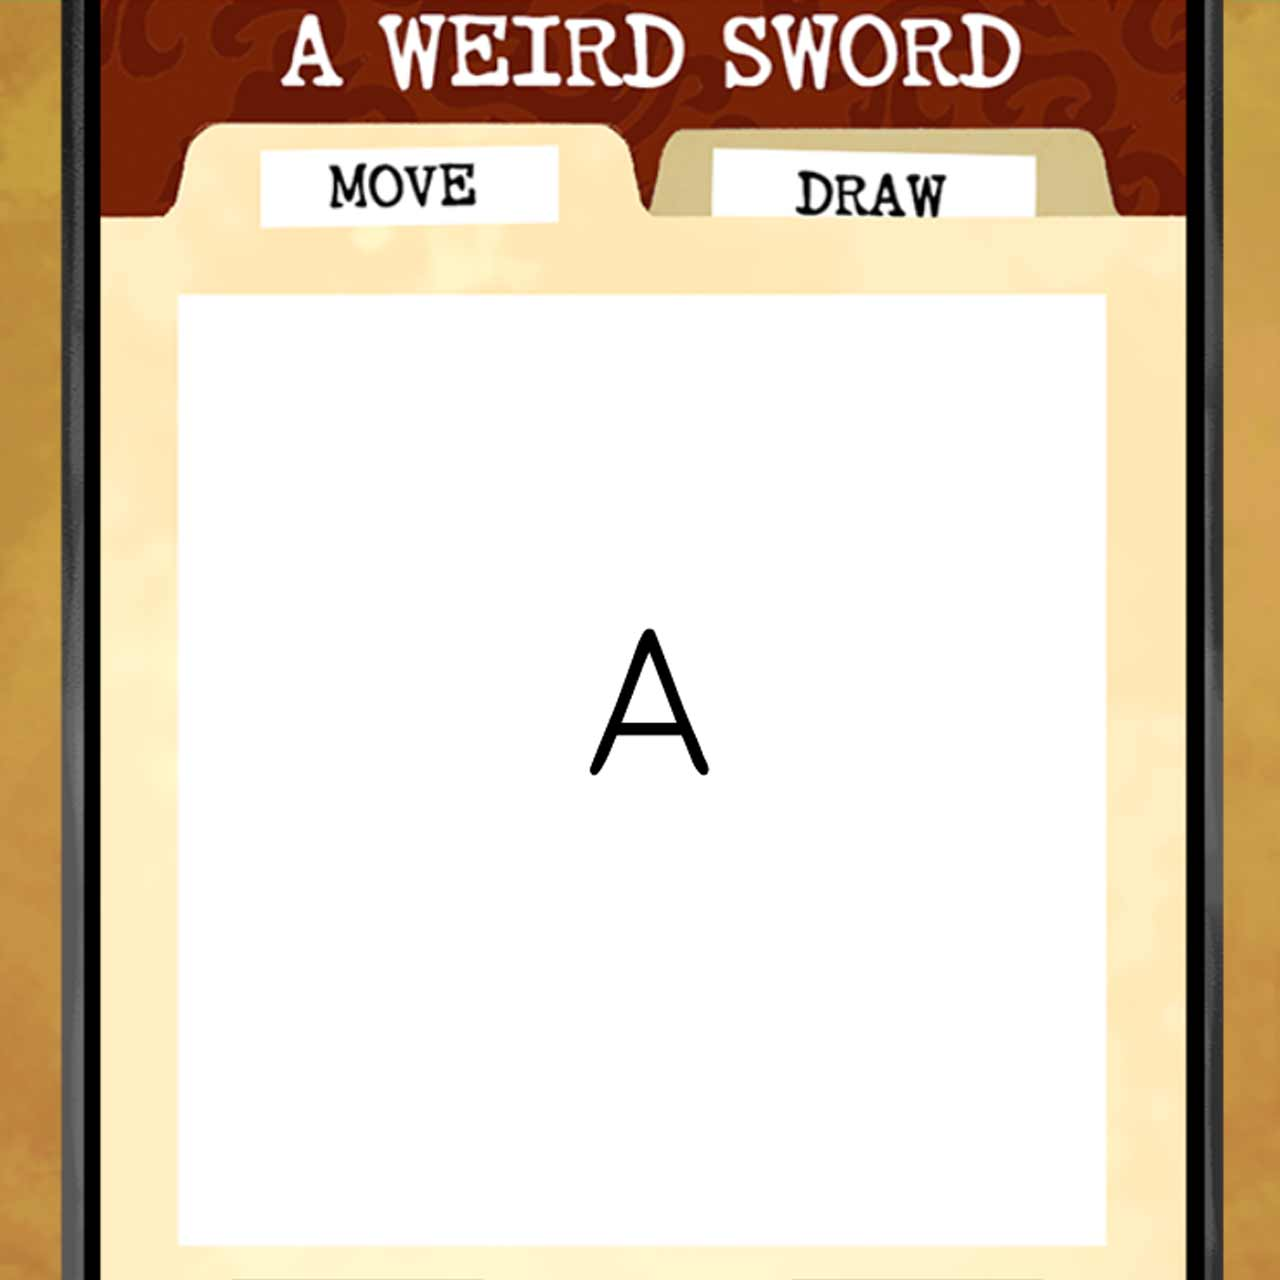
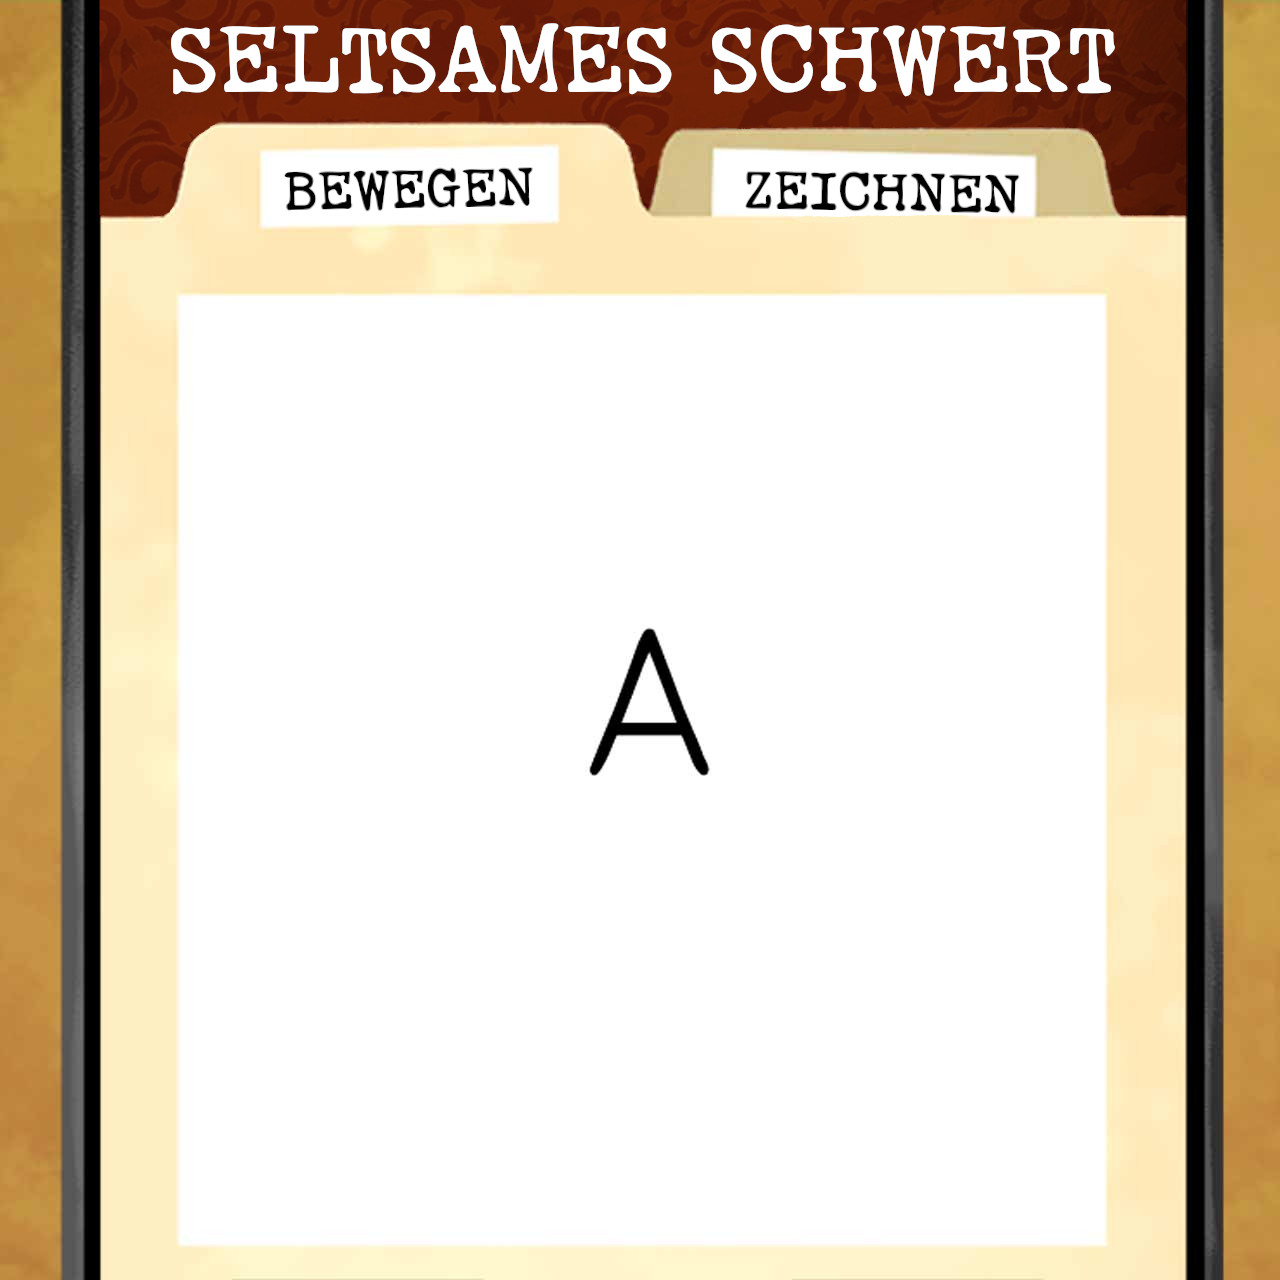
Weapons Drawn

Changed region(s): [[0.0625, 0.0, 0.9375, 0.1875], [0.5625, 0.125, 0.8125, 0.1875], [0.2188, 0.125, 0.4375, 0.1875]]

diff --git a/main/pp8/murder-detectives/script.js b/main/pp8/murder-detectives/script.js
@@ -25550,30 +25550,30 @@ ${t}`
         },
         pne = "sent",
         gne = {
-            SLIDE_0_TITLE: "In Weapons Drawn, every player is both a detective and a murderer.",
-            SLIDE_0_ITEM_1: "Murder guests brought by other players.",
-            SLIDE_0_ITEM_2: "Solve other murders to distract from your own.",
-            SLIDE_1_TITLE: "Each murder weapon you draw must contain a letter from your name.",
-            SLIDE_1_ITEM_1: 'This is your "calling card."',
-            SLIDE_1_ITEM_2: "Keep it a secret!",
-            SLIDE_2_TITLE: "Hide your letter as part of your drawing.",
-            SLIDE_2_ITEM_1: "Move your letter, then draw the weapon around it.",
-            SLIDE_2_ITEM_2: "Be on the lookout for other players\u2019 letters.",
-            SLIDE_3_TITLE: "Everyone brings two secret guests to the party.",
-            SLIDE_3_ITEM_1: "Give your guest a name that stands out, but won\u2019t lead back to you.",
-            SLIDE_3_ITEM_2: "Murder guests by guessing which player brought them.",
-            SLIDE_3_ITEM_3: "Your weapon is left behind as evidence.",
-            SLIDE_4_TITLE: "Pro Tips:",
-            SLIDE_4_ITEM_1: "Talk to each other and share your theories to get to a majority vote.",
-            SLIDE_4_ITEM_2: "Each player only draws each weapon once. Use this to eliminate suspects."
+            SLIDE_0_TITLE: "In Weapons Drawn ist jeder Spieler zugleich Mörder und Detektiv.",
+            SLIDE_0_ITEM_1: "Ermorde Gäste der anderen Spieler.",
+            SLIDE_0_ITEM_2: "Löse andere Mordfälle, um von deinen abzulenken.",
+            SLIDE_1_TITLE: "Jede Mordwaffe, die du zeichnest, muss einen Buchstaben aus deinem Namen enthalten.",
+            SLIDE_1_ITEM_1: 'Dies ist deine "Visitenkarte".',
+            SLIDE_1_ITEM_2: "Halte sie geheim!",
+            SLIDE_2_TITLE: "Verstecke deinen Buchstaben als Teil deiner Zeichnung.",
+            SLIDE_2_ITEM_1: "Bewege deinen Buchstaben und male deine Waffe mit ihm.",
+            SLIDE_2_ITEM_2: "Halte Ausschau nach den Buchstaben anderer Spieler.",
+            SLIDE_3_TITLE: "Jeder bringt zwei geheime Gäste mit zur Feier.",
+            SLIDE_3_ITEM_1: "Gib deinem Gast einen Namen, der heraussticht, aber nicht auf dich zurückzuführen ist.",
+            SLIDE_3_ITEM_2: "Ermorde Gäste, indem du herausfindest, wer sie mitgebracht hat.",
+            SLIDE_3_ITEM_3: "Deine Waffe bleibt als Beweismittel zurück.",
+            SLIDE_4_TITLE: "Profi-Tipp:",
+            SLIDE_4_ITEM_1: "Diskutiert eure Theorien und stimmt gemeinsam ab.",
+            SLIDE_4_ITEM_2: "Jeder Spieler malt jede Waffe nur ein Mal. Nutzt das, um Verdächtige auszuschließen."
         },
         mne = {
-            TAB_MOVE: "MOVE",
-            TAB_DRAW: "DRAW"
+            TAB_MOVE: "BEWEGEN",
+            TAB_DRAW: "ZEICHNEN"
         },
         vne = {
-            WRITE_SOMETHING: "You need to write something!",
-            FILTER_ERROR: "That's not allowed, enter something else! (You can change the level of filtering in the game's settings menu)"
+            WRITE_SOMETHING: "Du musst etwas schreiben!",
+            FILTER_ERROR: "Das kannst du nicht schreiben. Gib etwas anderes ein! (Du kannst die Filter-Optionen in den Einstellungen anpassen)"
         },
         yne = {
             SENT: pne,
